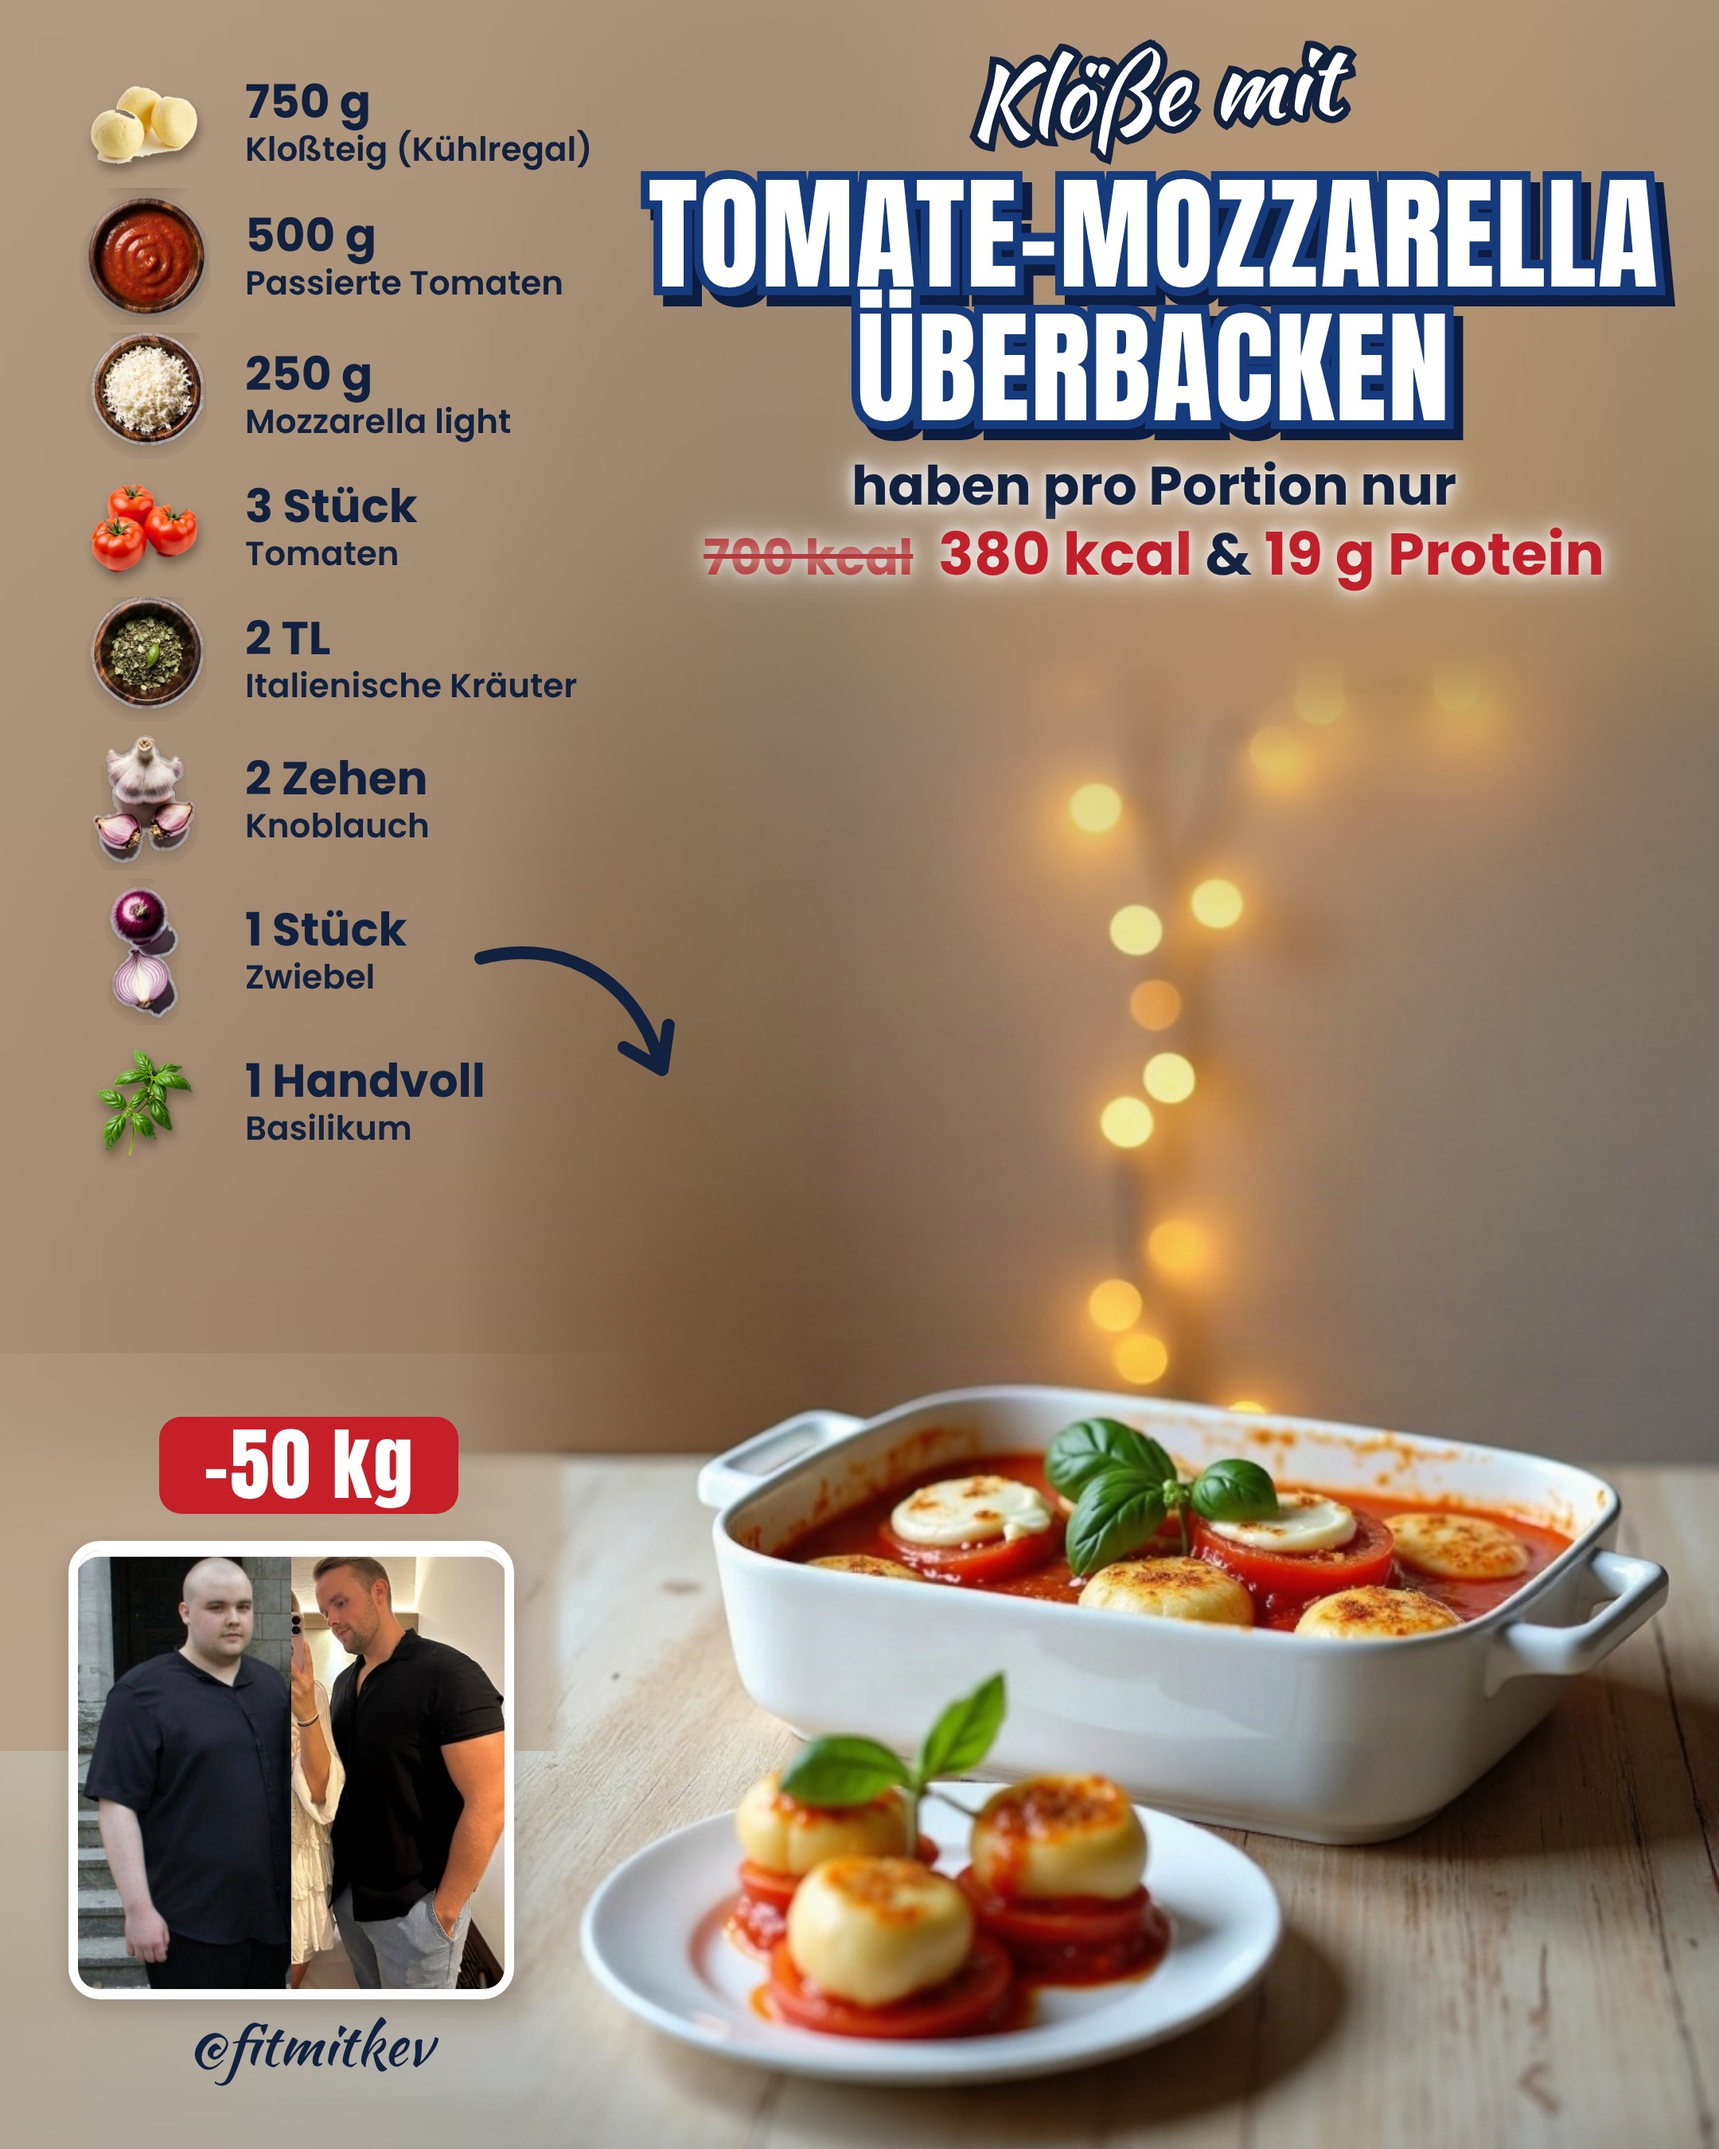
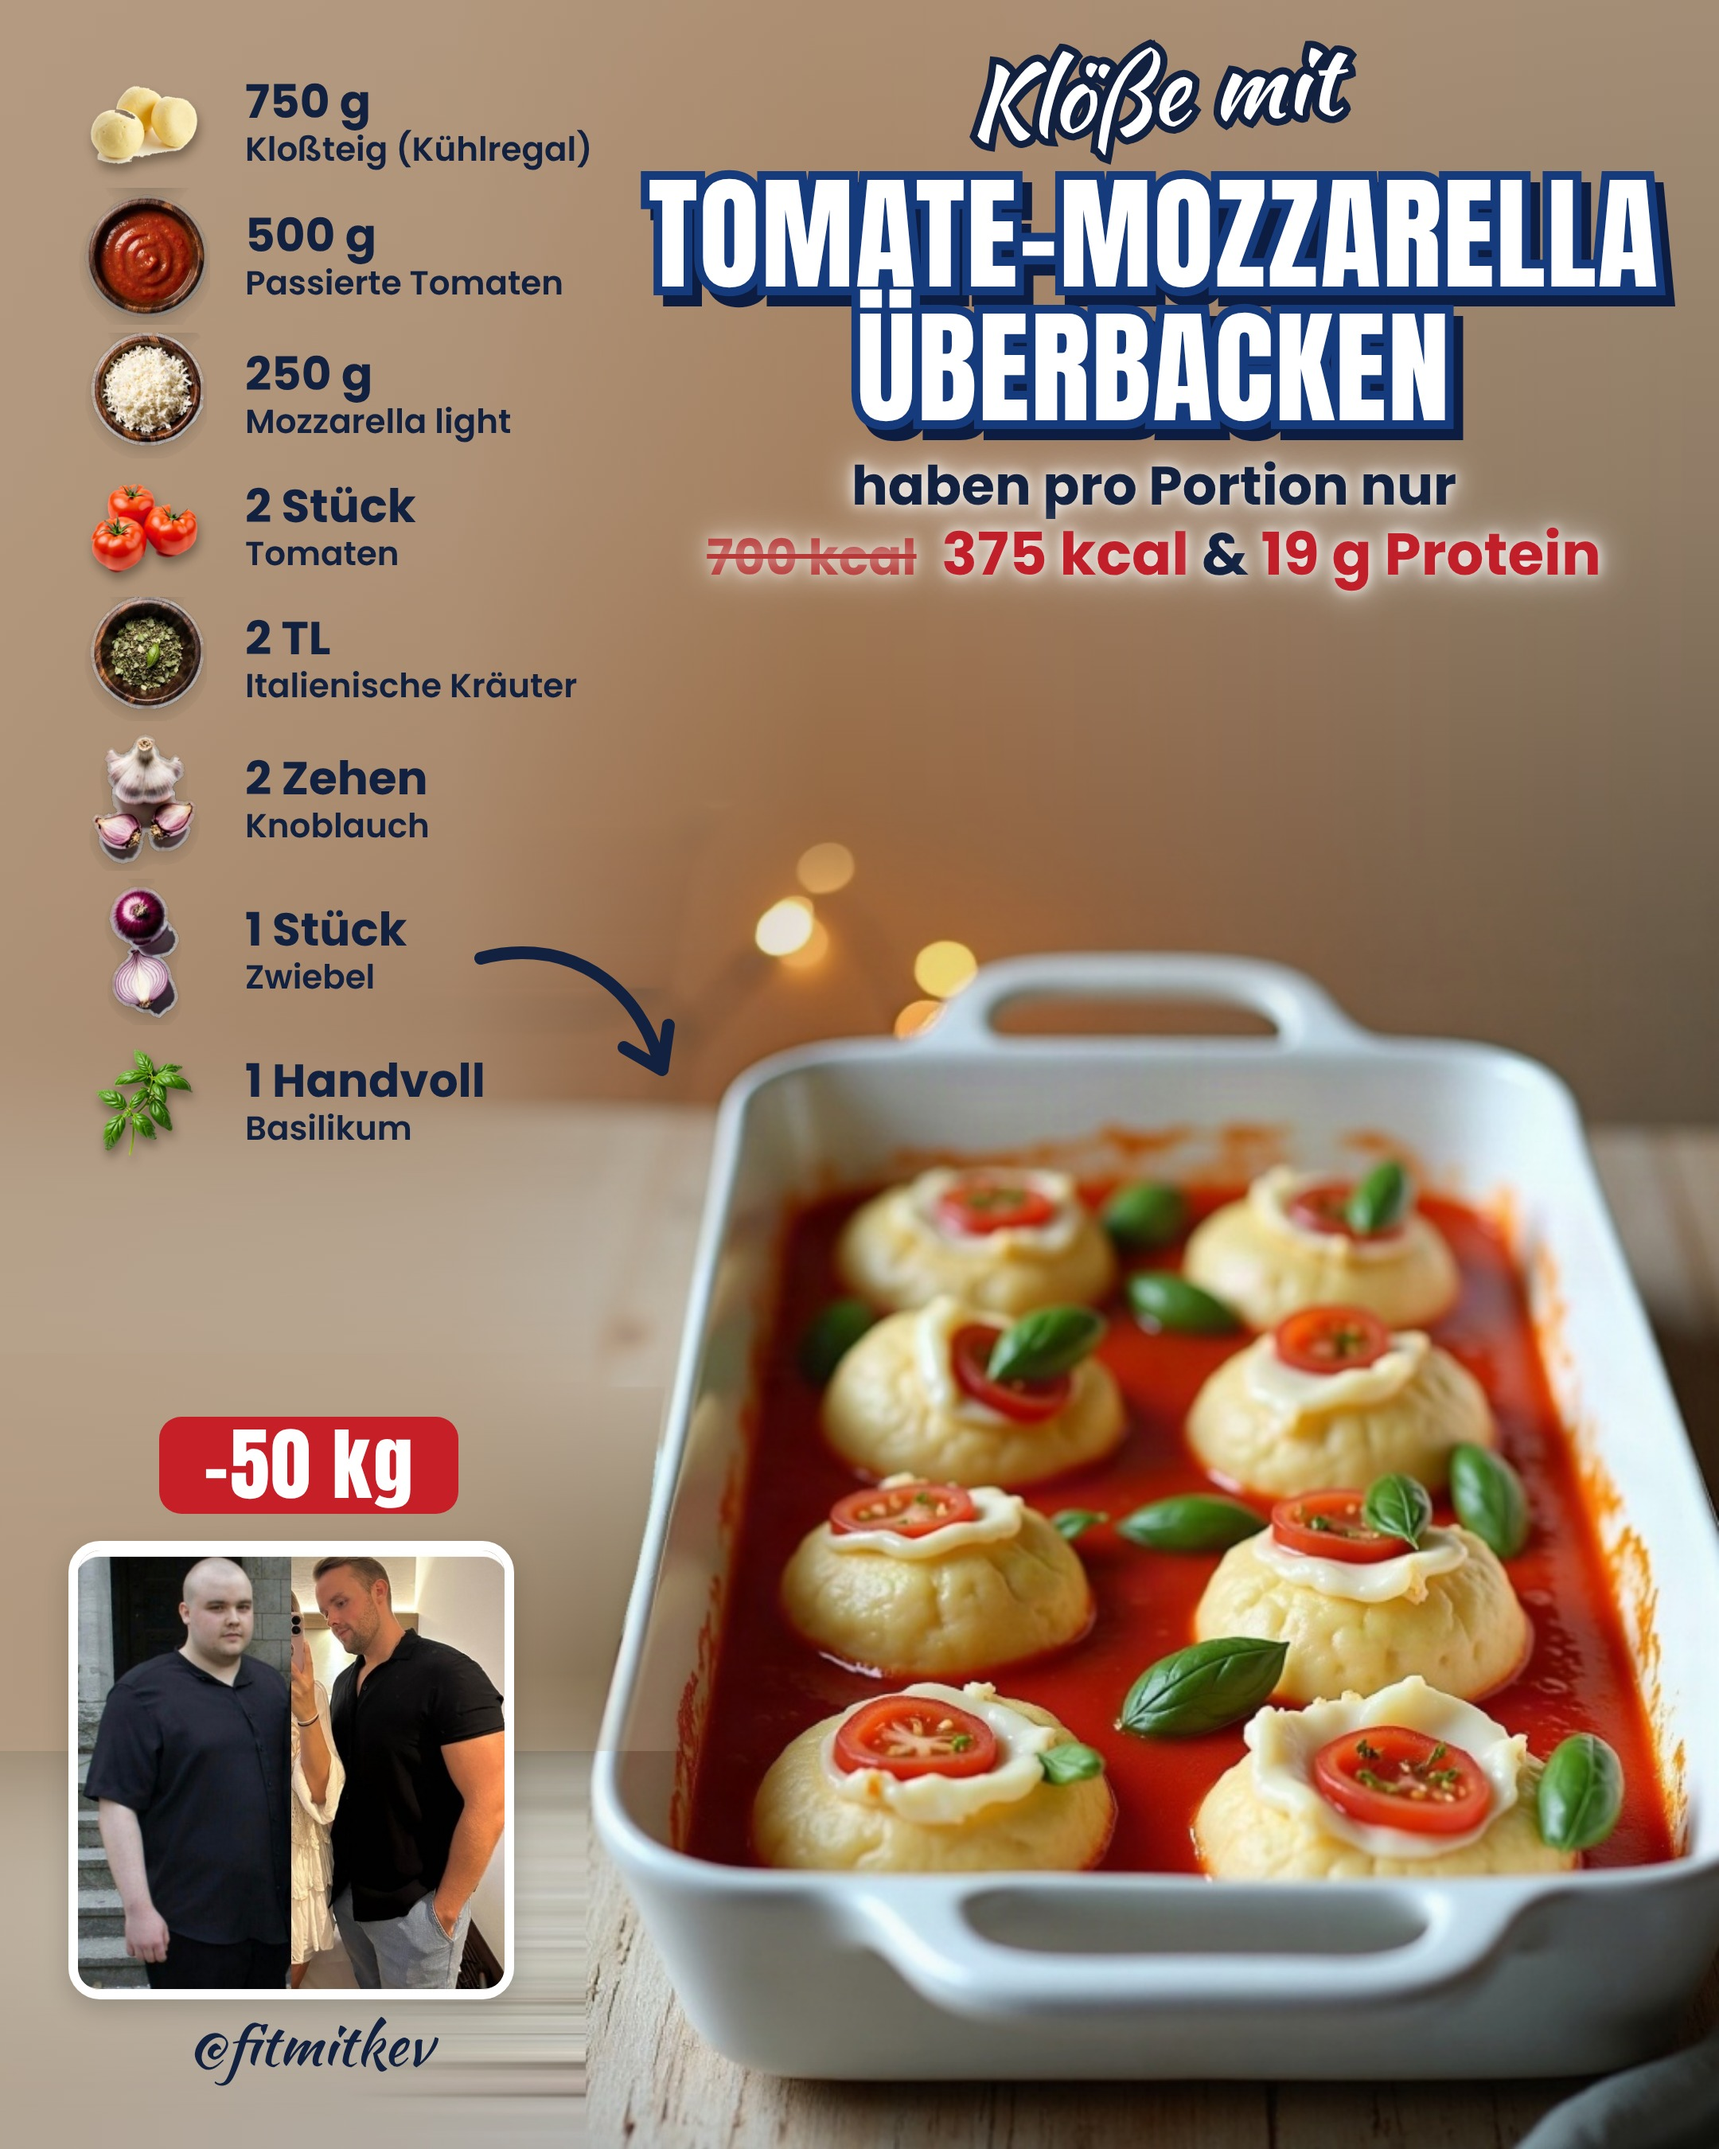
G100 Kloßteig-Reihe: Tomate-Mozzarella neu – Form groß im Bild, 8 große Klöße (Kev: Gericht größer, Klöße deutlicher)
Claude-Session: https://claude.ai/code/session_01KPVmpRePrZAkggdzf7KsfK

diff --git a/tools/g100/g100_data.py b/tools/g100/g100_data.py
@@ -73,7 +73,7 @@ NEU=dict(
 for _k,_r in NEU.items(): _r['kurz']=['–','–','–']; _r['exnut']=[]
 NEU['Frikassee']['exnut']=[(75,0,0,8)]   # 10 g Butter
 # ---- Kloßteig-Reihe (Kev 22.11., 16:06: „ab morgen eine Rezeptreihe mit Kloßteig-Rezepten … fertiger Kloßteig“; seine drei Vorgaben für den Start) ----
-# Bilder: KlossPaprika Seed 4 (erster Prompt; ganzes Filet statt Stücke → Rezept angepasst), KlossGulasch Seed 7 und KlossTomMozz Seed 7 (zweiter Prompt „whole plate fully visible … empty table space left and right“).
+# Bilder: KlossPaprika Seed 4 (erster Prompt; ganzes Filet statt Stücke → Rezept angepasst), KlossGulasch Seed 7 (zweiter Prompt „whole plate fully visible … empty table space left and right“). KlossTomMozz: erst Seed 7 (Form mit Teller davor) – Kev 22.11., 16:23: „Gericht größer im Bild“, „Klöße deutlicher“ → Nahaufnahme der Form mit 8 großen Klößen (Prompt KlossTomMozzB in jobs_g100.py, Seed 5), Rezept auf 8 große Klöße (2 pro Portion) angepasst.
 # Einheitlicher Auftakt „Klöße mit“ als Schreibschrift-Zeile, der Titel nennt die Variante → die Reihe ist auf einen Blick erkennbar. 4 kleine Klöße pro Teller (Kev 15:57).
 KLOSS=dict(
  KlossPaprika=dict(key='KlossPaprika', suess=False, hook='Klöße mit', titel=['PAPRIKA-SAHNE-','HÄHNCHEN'], portion='pro Portion', anzahl=4, vs=780,
@@ -101,15 +101,15 @@ KLOSS=dict(
   prompt='A round white dinner plate, the whole plate fully visible with empty table space left and right of it, with a portion of dark red-brown beef goulash with tender beef chunks in glossy dark brown gravy, beside it a portion of shiny purple braised red cabbage, and on the same plate exactly four small round pale yellow matte German potato dumplings, each about the size of a golf ball, lying close together in a group, all four clearly visible, a little chopped green parsley on the dumplings.'),
  KlossTomMozz=dict(key='KlossTomMozz', suess=False, hook='Klöße mit', titel=['TOMATE-MOZZARELLA','ÜBERBACKEN'], portion='pro Portion', anzahl=4, vs=700,
   zutaten=[Z('750 g','Kloßteig (Kühlregal)','kartoffelkloesse','kloesse',750), Z('500 g','Passierte Tomaten','passierte_tomaten','tomaten',500), Z('250 g','Mozzarella light','mozzarella_light','mozzarella',250),
-           Z('3 Stück','Tomaten','frische_tomaten','tomate',300), Z('1 Stück','Zwiebel','zwiebel','zwiebel',st=1), Z('2 Zehen','Knoblauch','knoblauch','knoblauch',6),
+           Z('2 Stück','Tomaten','frische_tomaten','tomate',200), Z('1 Stück','Zwiebel','zwiebel','zwiebel',st=1), Z('2 Zehen','Knoblauch','knoblauch','knoblauch',6),
            Z('2 TL','Italienische Kräuter','italienische_kraeuter','vanille',0), Z('1 Handvoll','Basilikum','basilikum','vanille',0)],
   ex=['1 EL Olivenöl', 'Salz, Pfeffer'],
-  intro='Klöße mal ganz anders: in fruchtiger Tomatensoße, mit Tomatenscheiben und Mozzarella belegt und im Ofen überbacken, bis der Käse goldgelb zerläuft. Schmeckt wie Gnocchi-Auflauf, ist aber aus fertigem Kloßteig in 15 Minuten vorbereitet, den Rest macht der Ofen: {k} kcal und {p} g Eiweiß pro Portion statt 700 für den Gnocchi-Auflauf beim Italiener!',
-  schritte=['Den Ofen auf 200 °C Ober-/Unterhitze vorheizen. Aus dem Kloßteig 12 Klöße formen (3 pro Portion) und in siedendem Salzwasser 10 Minuten vorgaren.',
+  intro='Klöße mal ganz anders: in fruchtiger Tomatensoße, jeder mit Mozzarella und einer Tomatenscheibe belegt und im Ofen überbacken, bis der Käse zerläuft. Schmeckt wie Gnocchi-Auflauf, ist aber aus fertigem Kloßteig in 15 Minuten vorbereitet, den Rest macht der Ofen: {k} kcal und {p} g Eiweiß pro Portion statt 700 für den Gnocchi-Auflauf beim Italiener!',
+  schritte=['Den Ofen auf 200 °C Ober-/Unterhitze vorheizen. Aus dem Kloßteig 8 große Klöße formen (2 pro Portion) und in siedendem Salzwasser 15 Minuten vorgaren.',
             'Zwiebel und Knoblauch fein würfeln und im Olivenöl 3 Minuten anschwitzen. Passierte Tomaten und Kräuter zugeben, mit Salz und Pfeffer würzen und 5 Minuten köcheln lassen. Die Soße in eine Auflaufform (ca. 20 × 30 cm) geben.',
-            'Tomaten und Mozzarella in Scheiben schneiden. Die Tomatenscheiben und die Klöße in die Soße setzen, alles mit dem Mozzarella belegen und 15–20 Minuten überbacken, bis der Käse goldgelb ist. Mit Basilikum bestreuen.'],
+            'Die Klöße in die Soße setzen. Mozzarella und Tomaten in Scheiben schneiden und auf jeden Kloß erst Mozzarella, dann eine Tomatenscheibe legen. 15–20 Minuten überbacken, bis der Käse zerläuft, und mit Basilikum bestreuen.'],
   frage='Klöße: lieber überbacken oder klassisch mit Soße?', tags='#klöße #tomatemozzarella #fitmitkev',
-  prompt='A white rectangular ceramic baking dish with two handles, both handles fully visible, the whole dish centered with empty table space left and right of it, seen from above at a 45 degree angle, filled with round pale yellow German potato dumplings sitting in bright red tomato sauce, between and on the dumplings slices of red tomato topped with round slices of melted white mozzarella cheese with golden brown spots from the oven, fresh green basil leaves scattered on top. In front of the baking dish a small white plate with exactly three round potato dumplings in red tomato sauce, topped with a slice of tomato and melted mozzarella.'),
+  prompt='Close-up food photo of a white rectangular ceramic baking dish with two handles, the whole dish fully visible and filling most of the frame, with a little empty table space left and right of it, seen from above at a 45 degree angle. In the dish eight large round pale yellow German potato dumplings, each the size of a tennis ball with a smooth matte surface, sitting side by side in two rows in bright red tomato sauce, the round shape of every dumpling clearly visible. On top of each dumpling one slice of red tomato and one slice of melted white mozzarella cheese with a few golden brown spots from the oven. Fresh green basil leaves scattered on top.'),
 )
 for _k,_r in KLOSS.items(): _r['kurz']=['–','–','–']; _r['exnut']=[(90,0,0,10)]   # 1 EL Öl
 KLOSS['KlossPaprika']['exnut']=[(90,0,0,10),(17,0,4,0)]   # dazu 1 TL Speisestärke

diff --git a/tools/g100/prep100.py b/tools/g100/prep100.py
@@ -6,7 +6,7 @@ Danach wird der Freisteller neu berechnet (Text-Maske liegt dann in den richtige
 import cv2, numpy as np, json, os, sys
 D=os.path.dirname(os.path.abspath(__file__))
 KEYS=['KokosWoelkchen','Schichtsalat','HackNudeln','PizzaWrap','Frikassee','KlossPaprika','KlossGulasch','KlossTomMozz']
-T={'KlossPaprika':dict(s=0.70,dy=40,glatt=True),'KlossGulasch':dict(s=0.80,dy=110,ct=40,cl=(50,0,700),glatt=True),'KlossTomMozz':dict(s=0.70,ct=40,cl=(45,0,690),glatt=True),
+T={'KlossPaprika':dict(s=0.70,dy=40,glatt=True),'KlossGulasch':dict(s=0.80,dy=110,ct=40,cl=(50,0,700),glatt=True),'KlossTomMozz':dict(s=0.66,dy=40,glatt=True,cl=(75,30,175),vf=(0,20,530,792),keil=(20,[(535,76),(560,72),(640,62),(700,50),(760,35),(790,24)])),
    'KokosWoelkchen':dict(s=0.72),'Schichtsalat':dict(s=0.74,mirror=True),'HackNudeln':dict(s=0.74),'PizzaWrap':dict(s=0.74),'Frikassee':dict(s=0.74,mirror=True,holz=([(0,958),(60,985),(100,1012),(150,1042),(200,1068),(250,1090),(300,1108),(335,1125),(338,1280),(0,1280)],340,1190))}
 def prep(key):
     sel=json.load(open(f'{D}/hero/_auswahl.json'))[key]

diff --git a/tools/g100/foodcut.py b/tools/g100/foodcut.py
@@ -36,7 +36,7 @@ def table_mask(rgb,a):
     X=(np.arange(w)/sx)[None,:]
     t=t*np.clip((560-X)/40,0,1)
     return cv2.GaussianBlur(t,(0,0),10)
-RECT={'KlossPaprika':(250,860,1080,1325),'KlossGulasch':(225,940,1068,1290),'KlossTomMozz':(350,850,1072,1335)}   # Teller/Form liegen klein im unteren Drittel: enger Rahmen, sonst nimmt GrabCut die Wand mit den Lichtern mit (senkrechte Kante im Bild)
+RECT={'KlossPaprika':(250,860,1080,1325),'KlossGulasch':(225,940,1068,1290),'KlossTomMozz':(372,590,1080,1312)}   # Teller/Form liegen klein im unteren Drittel: enger Rahmen, sonst nimmt GrabCut die Wand mit den Lichtern mit (senkrechte Kante im Bild)
 def food_cut(key):
     dst=f'{D}/hero_cut_m/{key}.png'
     os.makedirs(f'{D}/hero_cut_m',exist_ok=True)
